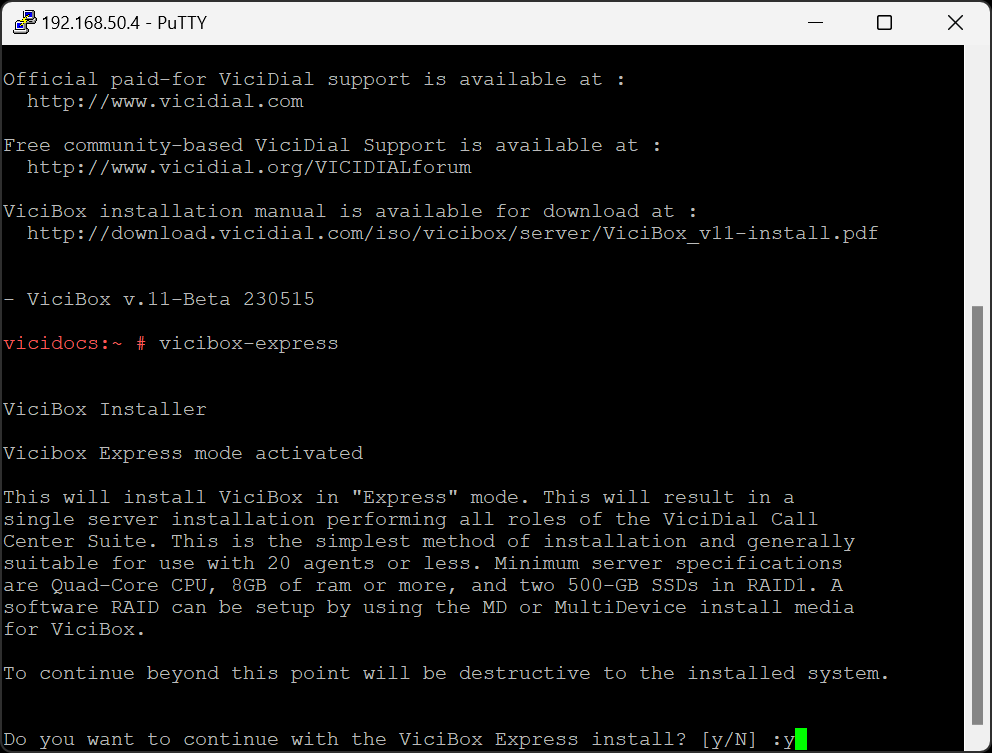
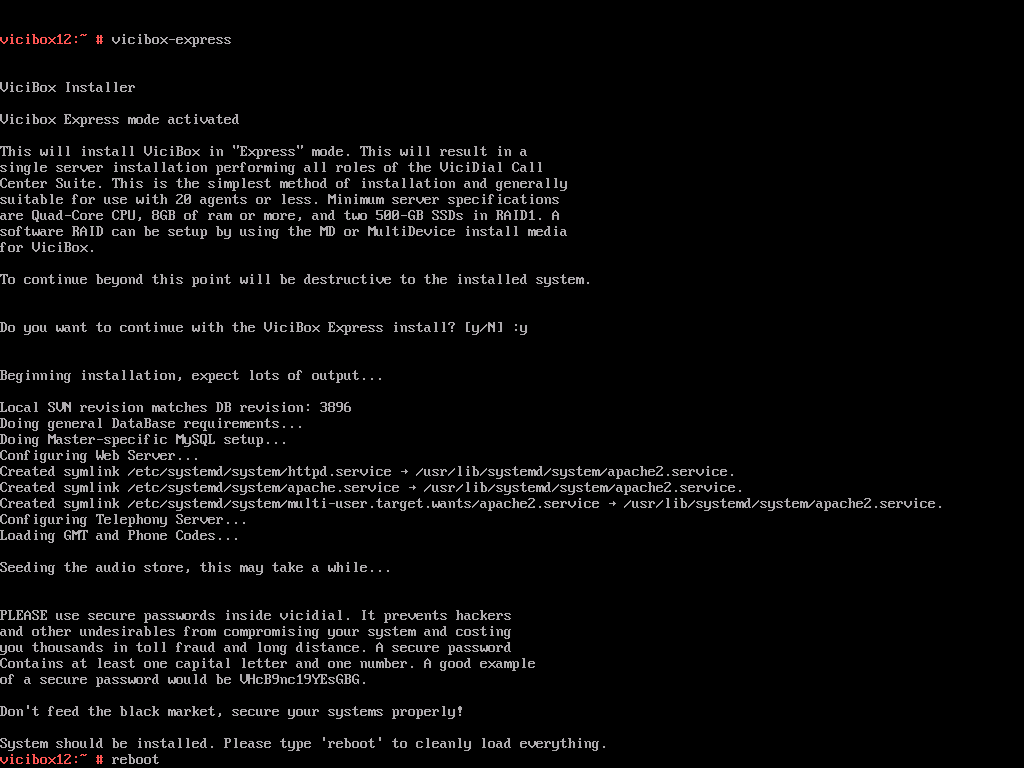
Update vicibox-express phase 2

diff --git a/docs/source/installation/phase2/express.rst b/docs/source/installation/phase2/express.rst
@@ -25,32 +25,27 @@ ViciDial is now successfully installed and running. It's recommended to continue
 
 Screenshots
 -----------
-Run vicibox-express and install
+Run vicibox-express and reboot
    .. image:: express-1.png
-      :alt: Run vicibox-express to install
+      :alt: Run vicibox-express then reboot
       :width: 665
 
-Reboot when done
+Verify that ViciDial started (may take up to 5 minutes)
    .. image:: express-2.png
-      :alt: Reboot when done to cleanly load ViciDial
+      :alt: Verify screen and asterisk sessions running
       :width: 665
 
-Verify ViciDial is running
+Verify that the web interface is working
    .. image:: express-3.png
-      :alt: Verify that ViciDial and Asterisk are running
+      :alt: Go to the servers IP in a browser
       :width: 665
 
-Verify web server is up
+Login as default user (password is 1234)
    .. image:: express-4.png
-      :alt: Verify that the web server is running
+      :alt: Login as user 6666 with password 1234
       :width: 665
 
-Login to ViciDial
+Continue with the ViciDial setup
    .. image:: express-5.png
-      :alt: Login to ViciDial to continue setting it up
-      :width: 665
-   
-Continue on to the Initial Setup
-   .. image:: express-6.png
-      :alt: Continue on with the Initial ViciDial configuration
+      :alt: Continue with the normal ViciDial setup
       :width: 665

diff --git a/docs/source/installation/phase1_5/install-updates.rst b/docs/source/installation/phase1_5/install-updates.rst
@@ -4,7 +4,7 @@
 Install Updates
 ==================
 
-While not required, it is *highly* recommended to install updates. This will update the ViciBox installer used in phase 2 as well as any new bug fixes or security updates. Internet connectivity is required to install updates. The initial update may take a while depending upon how many updates are available and how fast the internet connection is.
+While not required, it is *highly* recommended to install updates. This will update the ViciBox installer used in phase 2 as well as any new bug fixes or security updates. Internet connectivity is required to install updates. If the server is used in a secured network without internet access, updates can be skipped. It's still recommended to at least install updates when the OS is first installed prior to securing the server.
 
 Installing Updates
 ------------------
